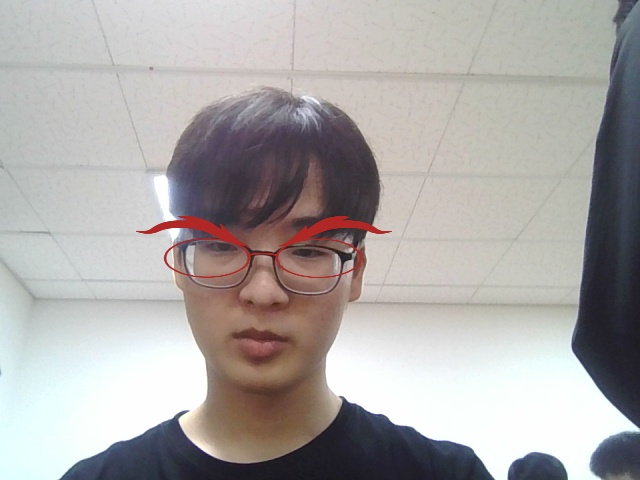
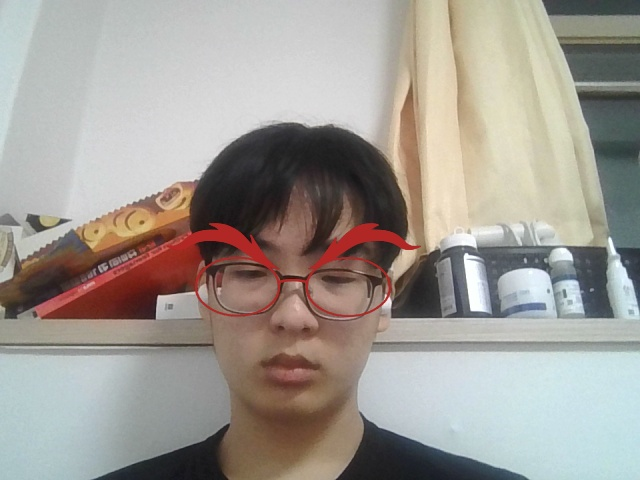
미완1

diff --git a/code 최최최최최종본(이였으면 좋겠다)/main.py b/code 최최최최최종본(이였으면 좋겠다)/main.py
@@ -13,10 +13,14 @@ count = int(0)
 #mp_drawing_styles =mp_drawing.DrawingSpec(color=(0,0,0),thickness = 10 ) 
 mp_face_mesh = mp.solutions.face_mesh
 
-filter_number = int(input())
+filter_number = int(input("안경 골라"))
 filter_image_path = filter.checknumber(filter_number)
 
-people_number = int(input()) 
+frame_number = int(input("필터 프레임 골라"))
+frame_image_path = filter.frame_filter(frame_number)
+
+people_number = int(input("몇명? 나는 그것이 궁굼해"))
+
 if filter_image_path == "fail":
     sys.exit()#고칠예정(maybe)
 
@@ -55,6 +59,11 @@ with mp_face_mesh.FaceMesh(
 
         if results.multi_face_landmarks:
             use_number = 0
+
+
+            image = picture.frame_image(image,frame_image_path)
+
+
             for i, face_landmarks in enumerate( results.multi_face_landmarks):                
                 x = face_landmarks.landmark[168].x * image_width
                 y = face_landmarks.landmark[168].y * image_height

diff --git a/code 최최최최최종본(이였으면 좋겠다)/picture.py b/code 최최최최최종본(이였으면 좋겠다)/picture.py
@@ -37,7 +37,7 @@ def take_pictures_start(filter_image_path,image,
   f_w,_,_ = filter_image.shape
   print(type(f_w))
   ratio = filter_width / f_w
-  
+
   filter_height = int(filter_height / ratio)
   print(filter_width,filter_height)
 
@@ -76,6 +76,30 @@ def take_pictures_start(filter_image_path,image,
     
 
   return image
+
+def frame_image(image,frame_image_path):
+
+  image = cv2.cvtColor(image,cv2.COLOR_BGR2RGBA)
+  
+  if frame_image_path == None:
+    return image
+  
+  i_h,i_w,_ = image.shape
+  print(i_h,i_w)
+  frame_image = cv2.imread(frame_image_path,cv2.COLOR_BGR2RGBA)
+  frame_image = cv2.resize(frame_image,dsize=(i_h,i_w))
+  frame_alpha = frame_image[:, : ,3]
+  frame_mask = frame_alpha / 255
+  for i in range(0,3):
+    
+    image[:,:,i] = (
+      (frame_image[:, : , i] * frame_mask) + 
+      (image[:,:,i] * ( 1 - frame_mask ))
+      )
+  
+  
+  return image
+
 
 
 

diff --git a/code 최최최최최종본(이였으면 좋겠다)/filter.py b/code 최최최최최종본(이였으면 좋겠다)/filter.py
@@ -13,7 +13,12 @@ def checknumber(filter_number):
       print(f"파일이 존재하지 않습니다: {filter_image_path}")
       return None
 
-  
+def frame_filter(frame_number):
+
+    frame_image_path = fr'C:\Users\user\Desktop\Obsidian\trick-or-picture\frame_image\{frame_number}.png'
+    if frame_image_path == None:
+        exit() 
+    return frame_image_path
 
       
 #1.도트 썬글라스
